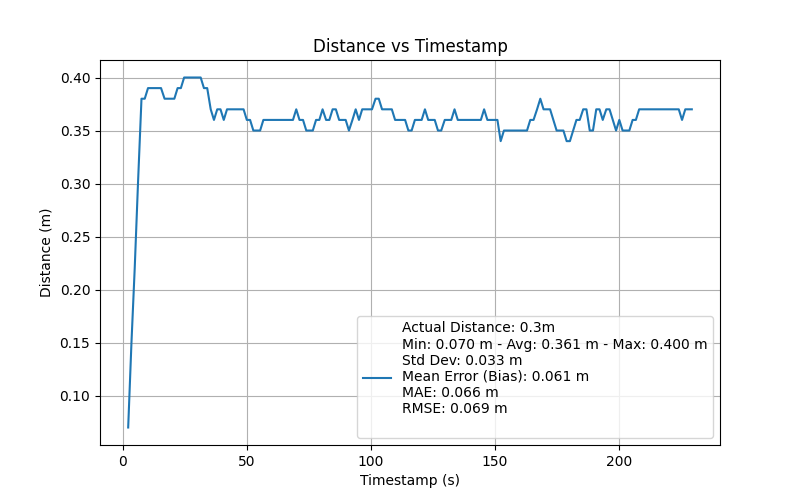
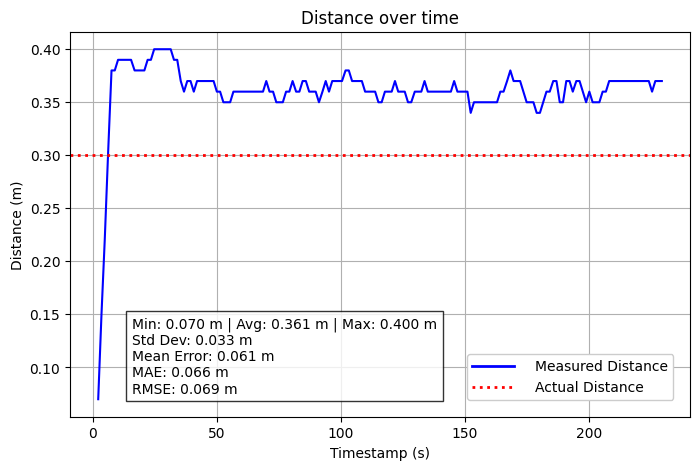
better graphs

diff --git a/uwbTesting/results/graphmaker.py b/uwbTesting/results/graphmaker.py
@@ -2,6 +2,7 @@ import pandas as pd
 import matplotlib.pyplot as plt
 import os
 import re
+from matplotlib.lines import Line2D  # Import for custom legend entry
 
 def extract_distance_from_filename(filename):
     match = re.search(r'uwb-test-(\d+)cm', filename)
@@ -22,53 +23,58 @@ def plot_csv_graph(filepath, output_folder):
 
     # Extract actual distance from filename
     actual_distance = extract_distance_from_filename(os.path.basename(filepath))
-    actual_distance_text = f"Actual Distance: {actual_distance}m" if actual_distance else "Actual Distance: Unknown"
 
-    # Calculate statistics
+    # Compute statistics
     avg_distance = df['Distance (m)'].mean()
     max_distance = df['Distance (m)'].max()
     min_distance = df['Distance (m)'].min()
     std_dev = df['Distance (m)'].std()
-    total_time = df['Timestamp (s)'].iloc[-1] - df['Timestamp (s)'].iloc[0]
 
     if actual_distance:
         mean_error = (df['Distance (m)'] - actual_distance).mean()
         mean_abs_error = (df['Distance (m)'] - actual_distance).abs().mean()
         rmse = ((df['Distance (m)'] - actual_distance) ** 2).mean() ** 0.5
     else:
-        mean_error = None
-        mean_abs_error = None
-        rmse = None
-
-    # Format error metrics
-    mean_error_text = f"Mean Error (Bias): {mean_error:.3f} m" if mean_error is not None else ""
-    mean_abs_error_text = f"MAE: {mean_abs_error:.3f} m" if mean_abs_error is not None else ""
-    rmse_text = f"RMSE: {rmse:.3f} m" if rmse is not None else ""
-    std_dev_text = f"Std Dev: {std_dev:.3f} m"
+        mean_error = mean_abs_error = rmse = None
 
     # Plot the data
     plt.figure(figsize=(8, 5))
-    plt.plot(df['Timestamp (s)'], df['Distance (m)'], linestyle='-', label='Distance (m)')
+    plt.plot(df['Timestamp (s)'], df['Distance (m)'], linestyle='-', color='blue', label='Measured Distance')
+
+    # Add a horizontal dotted line for actual distance if available
+    if actual_distance:
+        plt.axhline(y=actual_distance, color='r', linestyle='dotted', linewidth=2, label='Actual Distance')
 
     # Labels and title
     plt.xlabel('Timestamp (s)')
     plt.ylabel('Distance (m)')
-    plt.title('Distance vs Timestamp')
+    plt.title('Distance over time')
     plt.grid(True)
 
-    # Add legend with insights
-    legend_text = (f'{actual_distance_text}\n'
-                   f'Min: {min_distance:.3f} m - Avg: {avg_distance:.3f} m - Max: {max_distance:.3f} m\n'
-                   f'{std_dev_text}\n'
-                   f'{mean_error_text}\n'
-                   f'{mean_abs_error_text}\n'
-                   f'{rmse_text}\n')
-    plt.legend([legend_text], loc='lower right', frameon=True, fontsize=10)
+    # Custom legend entries
+    legend_entries = [
+        Line2D([0], [0], color='blue', linestyle='-', linewidth=2, label="Measured Distance"),
+        Line2D([0], [0], color='r', linestyle='dotted', linewidth=2, label="Actual Distance"),
+    ]
+
+    # Add statistics as text instead of inside the legend
+    stats_text = (f"Min: {min_distance:.3f} m | Avg: {avg_distance:.3f} m | Max: {max_distance:.3f} m\n"
+                  f"Std Dev: {std_dev:.3f} m\n"
+                  f"Mean Error: {mean_error:.3f} m\n"
+                  f"MAE: {mean_abs_error:.3f} m\n"
+                  f"RMSE: {rmse:.3f} m")
+
+    plt.text(0.1, 0.26, stats_text, transform=plt.gca().transAxes, fontsize=10,
+             verticalalignment='top', bbox=dict(facecolor='white', alpha=0.8, edgecolor='black'))
+
+    # Add legend with proper spacing
+    plt.legend(handles=legend_entries, loc='lower right', frameon=True, framealpha=1,
+               handlelength=3, handletextpad=1.5, borderaxespad=1.2, fontsize=10)
 
     # Save the plot
     filename = os.path.basename(filepath).replace('.csv', '.png')
     output_path = os.path.join(output_folder, filename)
-    plt.savefig(output_path)
+    plt.savefig(output_path, bbox_inches='tight')  # Ensure everything fits
     plt.close()
     print(f"Saved plot: {output_path}")
 
